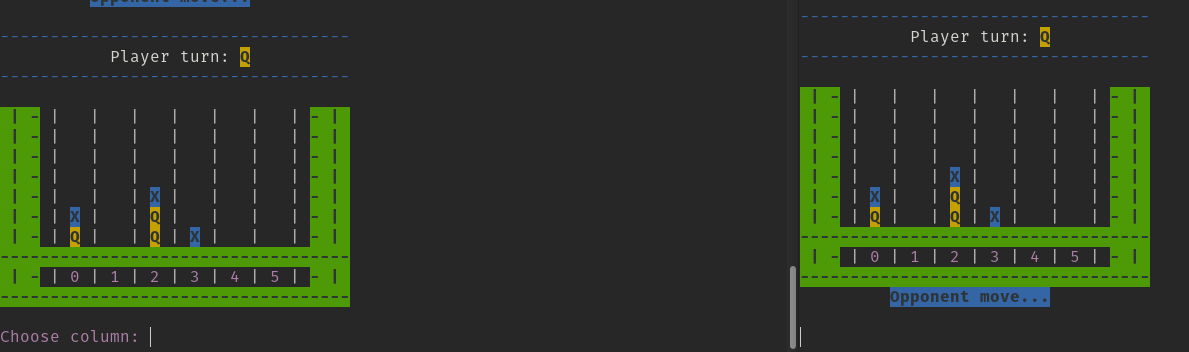
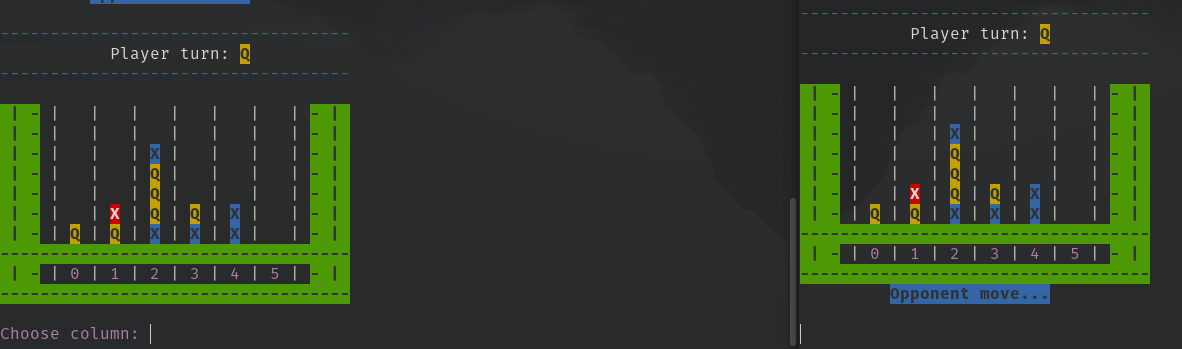
Add showing winning combination and las dropped disc in different color, update screenshots and readme

diff --git a/Server/src/main/java/applicationLogic/ConnectFour.java b/Server/src/main/java/applicationLogic/ConnectFour.java
@@ -3,25 +3,32 @@ package applicationLogic;
 import applicationLogic.exceptions.FullColumnException;
 import applicationLogic.exceptions.WrongColumnOrRowException;
 
-import java.util.Random;
+import java.awt.*;
+import java.awt.geom.Point2D;
+import java.util.*;
+import java.util.List;
 import java.util.function.Predicate;
 
 public class ConnectFour {
     private Board board;
     private int droppedDiscs;
     private char currentPlayer;
+    private Set<Point2D> winningCoords;
+    private Point lastChooseField;
 
     public final static char FIRST_PLAYER = 'X', SECOND_PLAYER = 'Q', EMPTY = 'o', DRAW = 'd';
 
     //----------------------------------------------------------------------------------------------------------------//
-
     public ConnectFour() {
+        winningCoords = new HashSet<>(4);
         restartGame();
     }
 
     //----------------------------------------------------------------------------------------------------------------//
     public void restartGame() {
         board = new Board();
+        winningCoords.clear();
+        lastChooseField = new Point(-1, -1);
         droppedDiscs = 0;
         startGame();
     }
@@ -38,11 +45,13 @@ public class ConnectFour {
     public void dropDisc(int col, char player) throws WrongColumnOrRowException, FullColumnException {
         if (col < 0 || col >= Board.COLUMNS)
             throw new WrongColumnOrRowException();
-        if (getDiscsInColumnQty(col) >= board.ROWS) {
+        if (getDiscsInColumnQty(col) >= Board.ROWS) {
             throw new FullColumnException();
         }
-        board.dropDisc(col, player);
+        winningCoords.clear();
         droppedDiscs++;
+        int rowIndex = board.dropDisc(col, player);
+        lastChooseField.setLocation(Board.ROWS - rowIndex - 1, col);
     }
 
     public int getDiscsInColumnQty(int col) {
@@ -76,6 +85,7 @@ public class ConnectFour {
     }
 
     private boolean isHorizontal(char player) {
+        winningCoords.clear();
         int discAmount = 0;
 
         int lastRow = board.getLastDiscRow();
@@ -85,27 +95,30 @@ public class ConnectFour {
             return false;
 
         for (int i = lastCol; i < Board.COLUMNS; i++) {
-            if (board.getSign(lastRow, i) == player)
+            if (board.getSign(lastRow, i) == player) {
+                winningCoords.add(new Point(lastRow, i));
                 discAmount++;
-            else break;
+            } else break;
         }
         for (int i = lastCol - 1; i >= 0; i--) {
-            if (board.getSign(lastRow, i) == player)
+            if (board.getSign(lastRow, i) == player) {
+                winningCoords.add(new Point(lastRow, i));
                 discAmount++;
-            else break;
+            } else break;
         }
-
         return discAmount > 3;
     }
 
     private boolean isVertical(char player) {
+        winningCoords.clear();
         if (board.getLastDiscRow() < 0)
             return false;
         int discAmount = 0;
         for (int i = board.getLastDiscRow(); i < Board.ROWS; i++) {
-            if (board.getSign(i, board.getLastDiscColumn()) == player)
+            if (board.getSign(i, board.getLastDiscColumn()) == player) {
+                winningCoords.add(new Point(i, board.getLastDiscColumn()));
                 discAmount++;
-            else return (discAmount > 3);
+            } else return (discAmount > 3);
         }
         return (discAmount > 3);
     }
@@ -115,6 +128,7 @@ public class ConnectFour {
     }
 
     private boolean isDiagonal(char player, boolean isRight) {
+        winningCoords.clear();
         int actualRow = board.getLastDiscRow();
         if (actualRow < 0)
             return false;
@@ -124,6 +138,7 @@ public class ConnectFour {
 
         for (int column = board.getLastDiscColumn(); column < Board.COLUMNS && condition.test(actualRow); column++) {
             if (board.getSign(actualRow, column) == player) {
+                winningCoords.add(new Point(actualRow, column));
                 discsAmount++;
                 if (isRight) actualRow--;
                 else actualRow++;
@@ -132,6 +147,7 @@ public class ConnectFour {
         actualRow = board.getLastDiscRow();
         for (int column = board.getLastDiscColumn(); column >= 0 && condition.test(actualRow); column--) {
             if (board.getSign(actualRow, column) == player) {
+                winningCoords.add(new Point(actualRow, column));
                 discsAmount++;
                 if (isRight) actualRow++;
                 else actualRow--;
@@ -147,5 +163,9 @@ public class ConnectFour {
 
     public Board getBoard() {
         return board;
+    }
+
+    public boolean fieldInSpecialColor(int row, int col) {
+        return (lastChooseField.x == row && lastChooseField.y == col) || (winningCoords.size() == 4 && winningCoords.contains(new Point(row, col)));
     }
 }

diff --git a/Server/src/main/java/controller/ServerController.java b/Server/src/main/java/controller/ServerController.java
@@ -99,8 +99,10 @@ public class ServerController implements MqttCallback {
     private void finishedCurrentGame(char result) {
         if (result == ConnectFour.DRAW)
             broker.publish(Broker.ALL_PLAYERS_TOP + Broker.RESULTS_TOP, Broker.DRAW_MSG);
-        else
-            broker.publish(Broker.ALL_PLAYERS_TOP + Broker.RESULTS_TOP, Broker.WINNER_MSG + Broker.DELIMITER + result);
+        else {
+            String winnerMsg = Broker.WINNER_MSG + Broker.DELIMITER + result + Broker.DELIMITER + getSignColorMsg(result);
+            broker.publish(Broker.ALL_PLAYERS_TOP + Broker.RESULTS_TOP, winnerMsg);
+        }
         broker.publish(Broker.ALL_PLAYERS_TOP + Broker.BOARD_TOP, getBoardLookMsg("NO-ONE"));
         broker.publish(Broker.ALL_PLAYERS_TOP + Broker.PREPARE_TOP, Broker.RESTART_REQUEST_MSG);
     }
@@ -124,13 +126,31 @@ public class ServerController implements MqttCallback {
             broker.publish(getPlayerTopic(getCurrentPlayer()) + Broker.PREPARE_TOP, Broker.START_GAME);
     }
 
-    //rowsQty:columnsQty:playerTurn:sign1:sign2:sig3 ...
+    //rowsQty:columnsQty:playerTurn:playerColor:sign1:sign2:sig3...color1;color2;color3 ...
     private String getBoardLookMsg(String playerTurn) {
-        StringBuilder builder = new StringBuilder(Board.ROWS + Broker.DELIMITER + Board.COLUMNS + Broker.DELIMITER + playerTurn);
+        String initialMsg = Board.ROWS + Broker.DELIMITER + Board.COLUMNS + Broker.DELIMITER + playerTurn + Broker.DELIMITER + getSignColorMsg(playerTurn.charAt(0));
+        StringBuilder builder = new StringBuilder(initialMsg);
         for (int row = 0; row < Board.ROWS; row++)
             for (int col = 0; col < Board.COLUMNS; col++)
                 builder.append(Broker.DELIMITER).append(gameLogic.getBoard().getSign(row, col));
+        for (int row = 0; row < Board.ROWS; row++)
+            for (int col = 0; col < Board.COLUMNS; col++)
+                builder.append(Broker.DELIMITER).append(getSignColorMsg(row, col));
         return builder.toString();
+    }
+
+    private String getSignColorMsg(int row, int column) {
+        if (gameLogic.fieldInSpecialColor(row, column))
+            return Broker.SPECIAL_COLOR;
+        else return getSignColorMsg(gameLogic.getBoard().getSign(row, column));
+    }
+
+    private String getSignColorMsg(char playerSign) {
+        if (playerSign == ConnectFour.FIRST_PLAYER)
+            return Broker.FIRST_COLOR;
+        else if (playerSign == ConnectFour.SECOND_PLAYER)
+            return Broker.SECOND_COLOR;
+        else return Broker.EMPTY_COLOR;
     }
 
     private void processClientConnectedMsg(String message) {

diff --git a/Server/src/main/java/applicationLogic/Board.java b/Server/src/main/java/applicationLogic/Board.java
@@ -23,13 +23,18 @@ public class Board {
         return discsQty;
     }
 
-    public void dropDisc(int col, char player) {
-        board[getDiscsInColumnQty(col)][col] = player;
+    /**
+     * @return row index of dropped disc
+     */
+    public int dropDisc(int col, char player) {
+        int rowIndex = getDiscsInColumnQty(col);
+        board[rowIndex][col] = player;
         lastColumnDropIndex = col;
+        return rowIndex;
     }
 
     public int getLastDiscRow() {
-        if (lastColumnDropIndex<0||lastColumnDropIndex>COLUMNS-1)
+        if (lastColumnDropIndex < 0 || lastColumnDropIndex > COLUMNS - 1)
             return -1;
 
         for (int i = ROWS - 1; i >= 0; i--) {

diff --git a/Server/src/main/java/applicationLogic/Broker.java b/Server/src/main/java/applicationLogic/Broker.java
@@ -15,6 +15,12 @@ public class Broker {
     public static final String DELIMITER = ":";
     private static final String SERVER_ID_PREFIX = "serv";
 
+    //fieldColors
+    public static final String FIRST_COLOR = "FIRST_PLAYER_COLOR";
+    public static final String SECOND_COLOR = "SECOND_PLAYER_COLOR";
+    public static final String SPECIAL_COLOR = "SPECIAL_PLAYER_COLOR";
+    public static final String EMPTY_COLOR = "EMPTY_COLOR";
+
     //messages: field
     public static final String WRONG_COLUMN_MSG = "WRONG_COLUMN";
     public static final String FULL_COLUMN_MSG = "FULL_COLUMN";

diff --git a/README.md b/README.md
@@ -31,7 +31,7 @@ or downlad it by using this link: https://mosquitto.org/download/ <br/>
 
 :two:  One of the players need to run a server:
 1) open directory `Server/bin`
-2) open one of the folders (`Linux` / `Windows`), in accordance with your Operating System:
+2) open one of the directories (`Linux` / `Windows`), according to your Operating System:
 
 - Linux
 
@@ -41,12 +41,12 @@ Open it by console with command:
 java -jar Server.jar
 ```
 
-- Windows
+- Windows <br/>
 Windows CMD not support ansi colors in console, so to run game properly, you need to do steps from a) OR b): <br/><br/>
   a) Open it using bash (e.g. `Git Bash`) identically as in Linux <br/>
   b) Open it using `CMD`: <br/>
-  	 - Open one of directory (`x64` and `x86`), in accordance with your system version
-  	 - run `RunGame.bat` script 
+  	 - Open one of directories (`x64` or `x86`), according to your system version
+  	 - run `RunGame.bat` script (just clik on it)
 
 :three:  Both players need to run a client application <br/>
 1) open `Client/bin`
